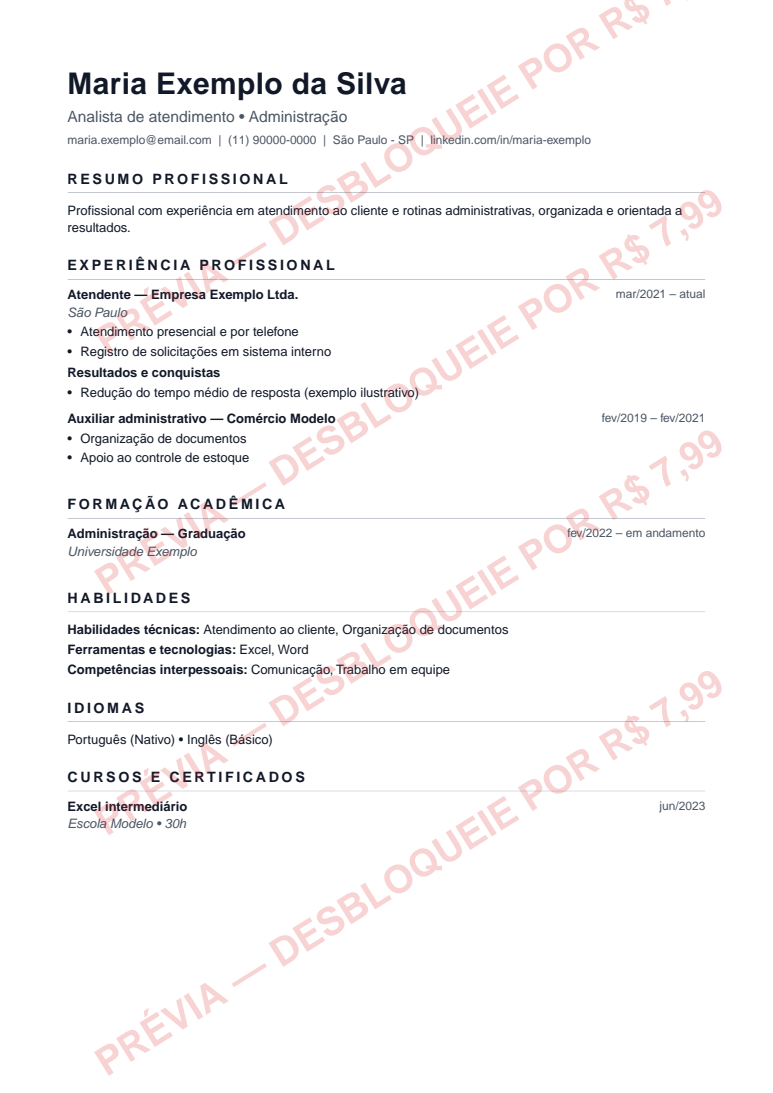
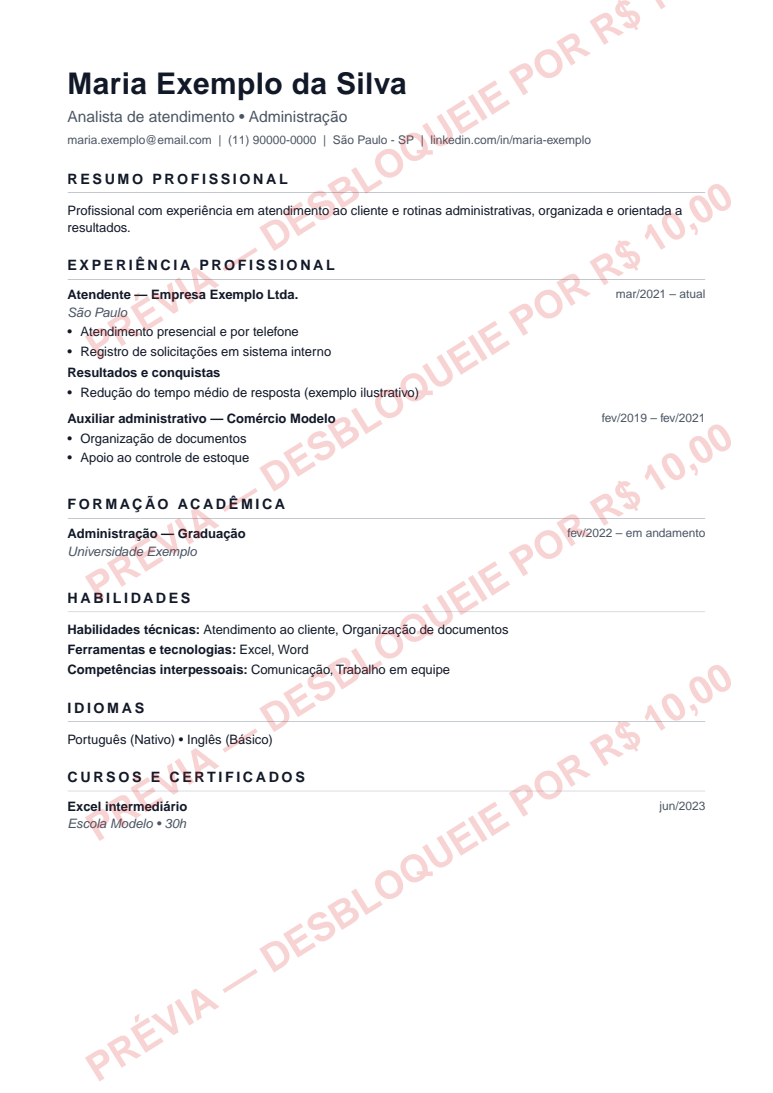
Preço padrão de R$ 10,00 (1000 centavos), marca d'água dinâmica e migração 0004
Claude-Session: https://claude.ai/code/session_01XMB9cjzkarimh1EuMbxFYn

diff --git a/tests/db-rls.test.ts b/tests/db-rls.test.ts
@@ -41,7 +41,7 @@ describe("migrações e RLS", () => {
 
   it("usuário não consegue escrever em payments, resume_files, ai_generations ou logs", async () => {
     await expect(asUser(db, alice, () =>
-      db.query("insert into payments (user_id, resume_id, resume_version, amount_cents, idempotency_key, status) values ($1,$2,1,799,'k1','approved')", [alice, aliceResume]))).rejects.toThrow();
+      db.query("insert into payments (user_id, resume_id, resume_version, amount_cents, idempotency_key, status) values ($1,$2,1,1000,'k1','approved')", [alice, aliceResume]))).rejects.toThrow();
     await expect(asUser(db, alice, () => db.query("insert into event_logs (type) values ('x')"))).rejects.toThrow();
     await expect(asUser(db, alice, () => db.query("insert into ai_generations (user_id, operation) values ($1, 'summary')", [alice]))).rejects.toThrow();
     await expect(asUser(db, alice, () => db.query("update app_settings set value = '1'::jsonb where key = 'price_cents'"))).rejects.toThrow();
@@ -53,27 +53,27 @@ describe("migrações e RLS", () => {
   });
 
   it("ninguém além do dono lê pagamentos", async () => {
-    await db.query("insert into payments (user_id, resume_id, resume_version, amount_cents, idempotency_key) values ($1,$2,1,799,'k-own')", [alice, aliceResume]);
+    await db.query("insert into payments (user_id, resume_id, resume_version, amount_cents, idempotency_key) values ($1,$2,1,1000,'k-own')", [alice, aliceResume]);
     expect((await asUser(db, bob, () => db.query("select * from payments"))).rows).toHaveLength(0);
     expect((await asUser(db, alice, () => db.query("select * from payments"))).rows).toHaveLength(1);
   });
 
   it("restringe valor e moeda de pagamentos", async () => {
     await expect(db.query("insert into payments (user_id, resume_id, resume_version, amount_cents, idempotency_key) values ($1,$2,1,0,'k-zero')", [alice, aliceResume])).rejects.toThrow();
-    await expect(db.query("insert into payments (user_id, resume_id, resume_version, amount_cents, currency, idempotency_key) values ($1,$2,1,799,'USD','k-usd')", [alice, aliceResume])).rejects.toThrow();
+    await expect(db.query("insert into payments (user_id, resume_id, resume_version, amount_cents, currency, idempotency_key) values ($1,$2,1,1000,'USD','k-usd')", [alice, aliceResume])).rejects.toThrow();
   });
 
   it("garante unicidade do identificador do provedor (idempotência)", async () => {
-    await db.query("insert into payments (user_id, resume_id, resume_version, amount_cents, idempotency_key, provider_payment_id, status) values ($1,$2,1,799,'k-a','PROV-1','cancelled')", [alice, aliceResume]);
-    await expect(db.query("insert into payments (user_id, resume_id, resume_version, amount_cents, idempotency_key, provider_payment_id, status) values ($1,$2,1,799,'k-b','PROV-1','cancelled')", [alice, aliceResume])).rejects.toThrow();
+    await db.query("insert into payments (user_id, resume_id, resume_version, amount_cents, idempotency_key, provider_payment_id, status) values ($1,$2,1,1000,'k-a','PROV-1','cancelled')", [alice, aliceResume]);
+    await expect(db.query("insert into payments (user_id, resume_id, resume_version, amount_cents, idempotency_key, provider_payment_id, status) values ($1,$2,1,1000,'k-b','PROV-1','cancelled')", [alice, aliceResume])).rejects.toThrow();
   });
 
   it("permite no máximo uma cobrança pendente por currículo/versão", async () => {
-    await expect(db.query("insert into payments (user_id, resume_id, resume_version, amount_cents, idempotency_key) values ($1,$2,1,799,'k-dup-pending')", [alice, aliceResume])).rejects.toThrow(/payments_one_pending_idx|unique|duplicate/i);
+    await expect(db.query("insert into payments (user_id, resume_id, resume_version, amount_cents, idempotency_key) values ($1,$2,1,1000,'k-dup-pending')", [alice, aliceResume])).rejects.toThrow(/payments_one_pending_idx|unique|duplicate/i);
   });
 
   it("não permite voltar um pagamento aprovado para pendente nem alterar o valor", async () => {
-    const r = await db.query<{ id: string }>("insert into payments (user_id, resume_id, resume_version, amount_cents, idempotency_key, status) values ($1,$2,1,799,'k-appr','approved') returning id", [alice, aliceResume]);
+    const r = await db.query<{ id: string }>("insert into payments (user_id, resume_id, resume_version, amount_cents, idempotency_key, status) values ($1,$2,1,1000,'k-appr','approved') returning id", [alice, aliceResume]);
     const id = r.rows[0].id;
     await expect(db.query("update payments set status = 'pending' where id = $1", [id])).rejects.toThrow(/Transição/);
     await expect(db.query("update payments set amount_cents = 1 where id = $1", [id])).rejects.toThrow(/imutáveis/);
@@ -87,7 +87,7 @@ describe("migrações e RLS", () => {
     await asUser(db, bob, () => db.query("update resumes set data = '{\"a\":2}' where id = $1", [fresh]));
     expect((await db.query("select version from resumes where id = $1", [fresh])).rows[0]).toMatchObject({ version: 1 });
     // com cobrança pendente na v1: editar sela v1 e cria v2
-    await db.query("insert into payments (user_id, resume_id, resume_version, amount_cents, idempotency_key) values ($1,$2,1,799,'k-v1')", [bob, fresh]);
+    await db.query("insert into payments (user_id, resume_id, resume_version, amount_cents, idempotency_key) values ($1,$2,1,1000,'k-v1')", [bob, fresh]);
     await asUser(db, bob, () => db.query("update resumes set data = '{\"a\":3}' where id = $1", [fresh]));
     expect((await db.query("select version from resumes where id = $1", [fresh])).rows[0]).toMatchObject({ version: 2 });
     expect((await db.query("select data from resume_versions where resume_id = $1 and version = 1", [fresh])).rows[0]).toMatchObject({ data: { a: 2 } });

diff --git a/tests/helpers/memory-store.ts b/tests/helpers/memory-store.ts
@@ -3,14 +3,14 @@ import type { PaymentRecord, PaymentStatus, PaymentStore, ProviderPayment } from
 export function makeRecord(over: Partial<PaymentRecord> = {}): PaymentRecord {
   return {
     id: "11111111-1111-4111-8111-111111111111", user_id: "user-1", resume_id: "resume-1", resume_version: 1,
-    provider: "mercadopago", provider_payment_id: "MP-1", amount_cents: 799, currency: "BRL", status: "pending",
+    provider: "mercadopago", provider_payment_id: "MP-1", amount_cents: 1000, currency: "BRL", status: "pending",
     idempotency_key: "pix:1", pix_qr_code: null, pix_qr_base64: null, pix_ticket_url: null,
     expires_at: new Date(Date.now() + 30 * 60_000).toISOString(), confirmed_at: null, created_at: new Date().toISOString(), ...over,
   };
 }
 
 export function makeProvider(over: Partial<ProviderPayment> = {}): ProviderPayment {
-  return { id: "MP-1", status: "approved", rawStatus: "approved", amountCents: 799, currency: "BRL", externalReference: "11111111-1111-4111-8111-111111111111", metadata: { user_id: "user-1", resume_id: "resume-1" }, ...over };
+  return { id: "MP-1", status: "approved", rawStatus: "approved", amountCents: 1000, currency: "BRL", externalReference: "11111111-1111-4111-8111-111111111111", metadata: { user_id: "user-1", resume_id: "resume-1" }, ...over };
 }
 
 /** Armazém em memória com a mesma semântica de transição condicional atômica do Supabase. */

diff --git a/tests/pdf.test.ts b/tests/pdf.test.ts
@@ -5,7 +5,7 @@ import { rasterizePdf, countPages } from "@/lib/pdf/rasterize";
 import { sampleResume } from "@/lib/resume/sample";
 import { TEMPLATE_IDS, resumePayloadSchema } from "@/lib/resume/schema";
 import { extractText } from "./helpers/pdf";
-import { PREVIEW_WATERMARK } from "@/lib/pdf/document";
+import { previewWatermark } from "@/lib/pdf/document";
 import { resumeFileName } from "@/lib/resume/format";
 
 describe("geração de PDF", () => {
@@ -24,8 +24,9 @@ describe("geração de PDF", () => {
   it("prévia contém a marca d'água, e as imagens entregues são PNG", async () => {
     const s = sampleResume("modern");
     const pdf = await renderPreviewPdf({ data: s.data, design: s.design });
-    expect(await extractText(pdf)).toContain("DESBLOQUEIE POR R$ 7,99");
-    expect(PREVIEW_WATERMARK).toContain("R$ 7,99");
+    expect(await extractText(pdf)).toContain("DESBLOQUEIE POR R$ 10,00");
+    expect(previewWatermark(1000)).toContain("R$ 10,00");
+    expect(previewWatermark(1550)).toContain("R$ 15,50");
     const r = await rasterizePdf(pdf);
     const png = Buffer.from(r.pages[0].split(",")[1], "base64");
     const meta = await sharp(png).metadata();

diff --git a/tests/payments.test.ts b/tests/payments.test.ts
@@ -8,9 +8,10 @@ import { MemoryStore, makeProvider, makeRecord } from "./helpers/memory-store";
 const ID = "11111111-1111-4111-8111-111111111111";
 
 describe("mapeamento de status e valores", () => {
-  it("converte R$ 7,99 em 799 sem erro de ponto flutuante", () => {
+  it("converte R$ 10,00 em 1000 sem erro de ponto flutuante", () => {
+    expect(toCents(10)).toBe(1000);
+    expect(toCents("10.00")).toBe(1000);
     expect(toCents(7.99)).toBe(799);
-    expect(toCents("7.99")).toBe(799);
     expect(toCents(0.1 + 0.2)).toBe(30);
     expect(toCents(undefined)).toBeNull();
   });
@@ -39,8 +40,8 @@ describe("liberação após pagamento aprovado", () => {
     expect(r.status).not.toBe("approved");
   });
 
-  it("rejeita valor incorreto (R$ 0,01 e R$ 79,90)", async () => {
-    for (const amountCents of [1, 7990, 798, null]) {
+  it("rejeita valor incorreto (R$ 0,01, R$ 7,99 e R$ 100,00)", async () => {
+    for (const amountCents of [1, 799, 10000, 999, null]) {
       const store = new MemoryStore([makeRecord()]);
       const r = await applyProviderState(store, (await store.getById(ID))!, makeProvider({ amountCents }));
       expect(r.status).toBe("pending");

diff --git a/src/lib/pdf/render.tsx b/src/lib/pdf/render.tsx
@@ -1,6 +1,7 @@
 import React from "react";
 import { renderToBuffer } from "@react-pdf/renderer";
-import { ResumePdf, PREVIEW_WATERMARK, type ResumePdfProps } from "./document";
+import { ResumePdf, previewWatermark, type ResumePdfProps } from "./document";
+import { DEFAULT_PRICE_CENTS } from "@/lib/settings";
 
 /** PDF final, sem marca d'água. Só deve ser chamado depois da checagem de acesso. */
 export async function renderFinalPdf(props: Omit<ResumePdfProps, "watermark">): Promise<Buffer> {
@@ -8,6 +9,7 @@ export async function renderFinalPdf(props: Omit<ResumePdfProps, "watermark">): 
 }
 
 /** PDF interno usado apenas para gerar as imagens da prévia (nunca é enviado ao cliente). */
-export async function renderPreviewPdf(props: Omit<ResumePdfProps, "watermark">): Promise<Buffer> {
-  return renderToBuffer(<ResumePdf {...props} watermark={PREVIEW_WATERMARK} />);
+export async function renderPreviewPdf(props: Omit<ResumePdfProps, "watermark"> & { priceCents?: number }): Promise<Buffer> {
+  const { priceCents = DEFAULT_PRICE_CENTS, ...rest } = props;
+  return renderToBuffer(<ResumePdf {...rest} watermark={previewWatermark(priceCents)} />);
 }

diff --git a/src/app/api/resumes/[id]/preview/route.ts b/src/app/api/resumes/[id]/preview/route.ts
@@ -3,6 +3,7 @@ import { renderPreviewPdf } from "@/lib/pdf/render";
 import { rasterizePdf } from "@/lib/pdf/rasterize";
 import { minimumDataIssues } from "@/lib/resume/schema";
 import { logEvent } from "@/lib/log";
+import { getSettings } from "@/lib/settings";
 
 export const runtime = "nodejs";
 export const maxDuration = 30;
@@ -27,7 +28,8 @@ export async function GET(_req: Request, { params }: Ctx) {
 
   try {
     const photo = resume.design.showPhoto ? await loadPhoto(ctx.user.id, resume.data.personal.photoPath) : null;
-    const pdf = await renderPreviewPdf({ data: resume.data, design: resume.design, photo });
+    const { priceCents } = await getSettings();
+    const pdf = await renderPreviewPdf({ data: resume.data, design: resume.design, photo, priceCents });
     const { pages, pageCount } = await rasterizePdf(pdf, 1.5);
     return json({ pages, pageCount, version: resume.version });
   } catch (e) {

diff --git a/src/lib/pdf/document.tsx b/src/lib/pdf/document.tsx
@@ -3,12 +3,12 @@ import { Document, Font, Image, Link, Page, StyleSheet, Text, View } from "@reac
 import type { ResumeData, ResumeDesign, SectionKey } from "@/lib/resume/schema";
 import { SECTION_LABELS, accentHex } from "@/lib/resume/schema";
 import { getTemplate } from "@/lib/resume/templates";
-import { contactItems, formatMonth, formatPeriod, lines, visibleSections } from "@/lib/resume/format";
+import { brl, contactItems, formatMonth, formatPeriod, lines, visibleSections } from "@/lib/resume/format";
 
 // Evita quebrar palavras com hífen automático (prejudica leitura por ATS).
 Font.registerHyphenationCallback((word) => [word]);
 
-export const PREVIEW_WATERMARK = "PRÉVIA — DESBLOQUEIE POR R$ 7,99";
+export const previewWatermark = (priceCents: number) => `PRÉVIA — DESBLOQUEIE POR ${brl(priceCents)}`;
 
 export interface ResumePdfProps {
   data: ResumeData;

diff --git a/src/app/layout.tsx b/src/app/layout.tsx
@@ -5,7 +5,7 @@ import { env } from "@/lib/env";
 export const metadata: Metadata = {
   metadataBase: new URL(env.appUrl),
   title: { default: "Currículo Certo — currículo profissional em minutos", template: "%s | Currículo Certo" },
-  description: "Crie um currículo profissional, veja a nota de aceitação (0 a 10) para o modelo escolhido e baixe em PDF por R$ 7,99.",
+  description: "Crie um currículo profissional, veja a nota de aceitação (0 a 10) para o modelo escolhido e baixe em PDF por R$ 10,00.",
 };
 export const viewport: Viewport = { width: "device-width", initialScale: 1, themeColor: "#26262b" };
 

diff --git a/tests/helpers/db.ts b/tests/helpers/db.ts
@@ -22,7 +22,7 @@ export async function createDb() {
     alter default privileges in schema public grant all on sequences to anon, authenticated, service_role;
     alter default privileges in schema public grant execute on functions to anon, authenticated, service_role;
   `);
-  for (const f of ["0001_schema.sql", "0002_rls.sql", "0003_storage.sql"]) {
+  for (const f of ["0001_schema.sql", "0002_rls.sql", "0003_storage.sql", "0004_price_10.sql"]) {
     await db.exec(readFileSync(path.join(process.cwd(), "supabase/migrations", f), "utf8"));
   }
   return db;

diff --git a/src/lib/payments/mercadopago.ts b/src/lib/payments/mercadopago.ts
@@ -15,7 +15,7 @@ export function mapMercadoPagoStatus(status: string, detail?: string): PaymentSt
   }
 }
 
-/** R$ 7,99 (número do provedor) → 799. Usa arredondamento para evitar erro de ponto flutuante. */
+/** R$ 10,00 (número do provedor) → 1000. Usa arredondamento para evitar erro de ponto flutuante. */
 export function toCents(amount: unknown): number | null {
   const n = typeof amount === "string" ? Number(amount) : (amount as number);
   return typeof n === "number" && Number.isFinite(n) ? Math.round(n * 100) : null;

diff --git a/src/lib/resume/format.ts b/src/lib/resume/format.ts
@@ -15,6 +15,11 @@ export function formatPeriod(start: string, end: string, current: boolean, curre
   return s || e || "";
 }
 
+/** 1000 → "R$ 10,00" (sem caracteres especiais, seguro para a marca d'água do PDF). */
+export function brl(cents: number): string {
+  return `R$ ${(cents / 100).toFixed(2).replace(".", ",")}`;
+}
+
 export function lines(value: string): string[] {
   return value
     .split("\n")

diff --git a/src/lib/settings.ts b/src/lib/settings.ts
@@ -1,7 +1,7 @@
 import { createAdminClient } from "@/lib/supabase/admin";
 import { configStatus } from "@/lib/env";
 
-export const DEFAULT_PRICE_CENTS = 799;
+export const DEFAULT_PRICE_CENTS = 1000;
 
 export interface AppSettings {
   priceCents: number;
